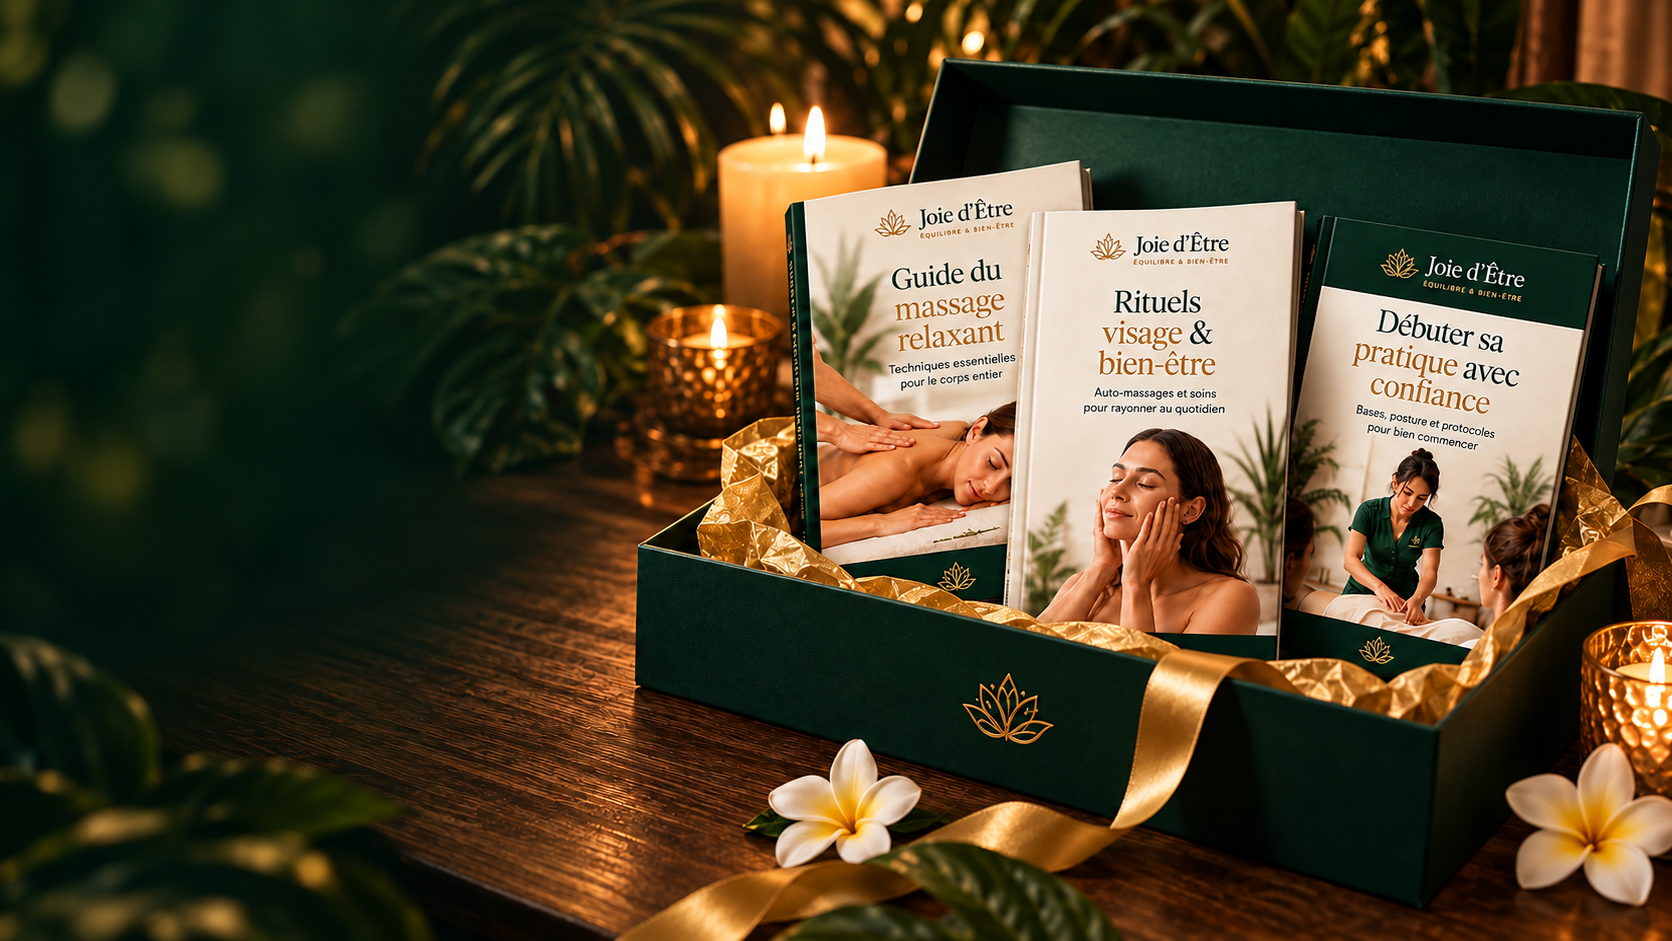
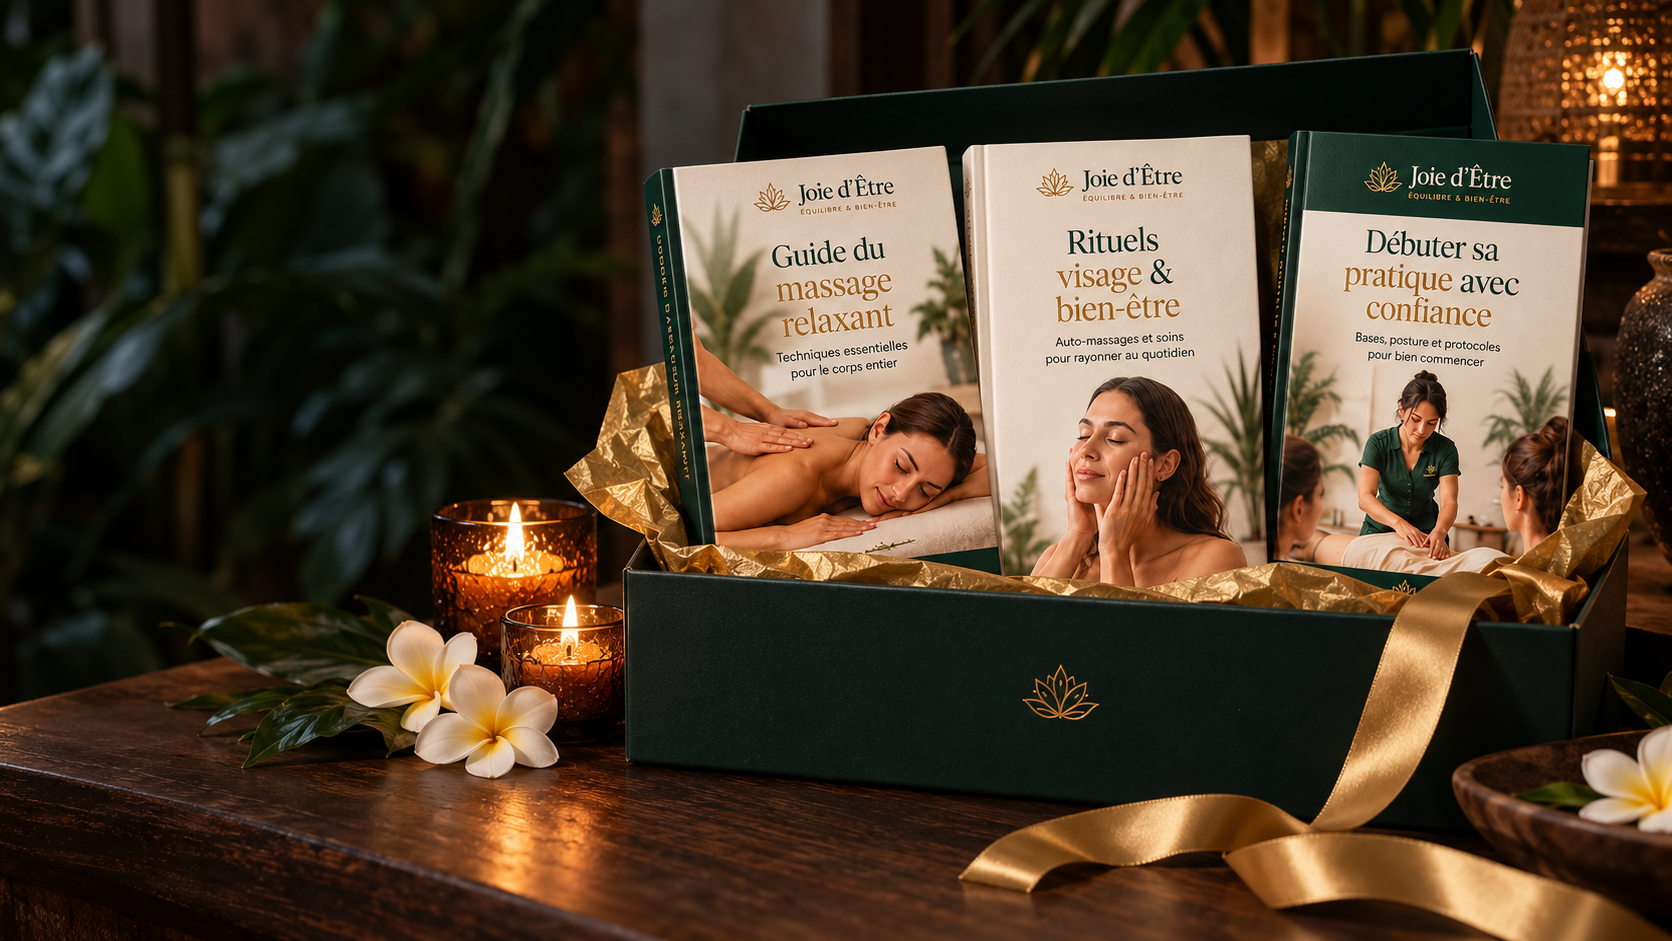
Mes guides : héros en deux colonnes, collection épurée, ornements et photos photoréalistes
Le héros reprend celui des pages Massages, Soins et Épilation. La collection
garde titre, sous-titre et bouton Découvrir ; le coffret et l'auteure prennent
l'ornement des autres sections et un seul bouton.

diff --git a/src/components/guides/guides-collection-section.tsx b/src/components/guides/guides-collection-section.tsx
@@ -1,21 +1,10 @@
-import { useState } from 'react'
-import { ArrowRight } from 'lucide-react'
-
 import { EmbossedCta } from '#/components/landing/embossed-cta'
 import { SectionEyebrow } from '#/components/landing/section-ornaments'
 import { LeafShadow } from '#/components/services/leaf-shadow'
-import { formatEuros, guideCategories, guides } from '#/data/guides'
-import type { Guide, GuideCategory } from '#/data/guides'
-import { cn } from '#/lib/utils'
-
-type Filter = 'Tous' | GuideCategory
-
-const filters: ReadonlyArray<Filter> = ['Tous', ...guideCategories]
+import { guides } from '#/data/guides'
+import type { Guide } from '#/data/guides'
 
 export function GuidesCollectionSection() {
-  const [filter, setFilter] = useState<Filter>('Tous')
-  const visibleGuides = filter === 'Tous' ? guides : guides.filter((guide) => guide.category === filter)
-
   return (
     <section
       id="collection"
@@ -36,37 +25,14 @@ export function GuidesCollectionSection() {
         <SectionEyebrow label="La collection" />
         <h2
           id="collection-title"
-          className="mt-5 text-center text-[clamp(2.4rem,10vw,3.1rem)] font-normal leading-[1.04] tracking-[-0.025em] sm:text-[clamp(3.4rem,6vw,4.4rem)] lg:text-[clamp(3.6rem,4.4vw,4.75rem)]"
+          className="mt-5 text-center text-[clamp(2.4rem,10vw,3.1rem)] font-normal leading-[1.08] tracking-[-0.025em] sm:text-[clamp(3.4rem,6vw,4.4rem)] lg:text-[clamp(3.6rem,4.4vw,4.75rem)]"
         >
-          <span className="block">Trois guides,</span>
-          <em className="block pb-1 font-normal text-[#c09027]">un même art du soin</em>
+          Le guide qui{' '}
+          <em className="inline-block pb-1 font-normal text-[#c09027]">vous ressemble</em>
         </h2>
 
-        <div
-          className="mt-7 flex flex-wrap items-center justify-center gap-x-3 gap-y-2 text-sm text-[#355149] sm:text-base"
-          role="group"
-          aria-label="Filtrer les guides"
-        >
-          {filters.map((item, index) => (
-            <span key={item} className="flex items-center gap-3">
-              {index > 0 && <span className="text-[#c09027]" aria-hidden="true">·</span>}
-              <button
-                type="button"
-                onClick={() => setFilter(item)}
-                aria-pressed={filter === item}
-                className={cn(
-                  'cursor-pointer rounded-sm border-b px-1 pb-1 transition-colors duration-200 hover:text-[#0d3a2f] focus-visible:outline-2 focus-visible:outline-offset-4 focus-visible:outline-[#d4af37]',
-                  filter === item ? 'border-[#c09027] text-[#0d3a2f]' : 'border-transparent',
-                )}
-              >
-                {item}
-              </button>
-            </span>
-          ))}
-        </div>
-
-        <div className="mx-auto mt-10 grid max-w-[92rem] gap-6 sm:mt-12 sm:grid-cols-2 lg:grid-cols-3 xl:gap-8">
-          {visibleGuides.map((guide) => (
+        <div className="mx-auto mt-10 grid max-w-[92rem] gap-6 sm:mt-12 sm:grid-cols-2 lg:mt-14 lg:grid-cols-3 xl:gap-8">
+          {guides.map((guide) => (
             <GuideCard key={guide.slug} guide={guide} />
           ))}
         </div>
@@ -82,7 +48,7 @@ function GuideCard({ guide }: { guide: Guide }) {
       className="group flex scroll-mt-28 flex-col overflow-hidden rounded-sm border border-[#d4af37]/45 bg-[#fffdf8] p-2 pb-8 text-center shadow-[0_18px_40px_rgba(77,51,22,0.08)]"
       aria-labelledby={`${guide.slug}-title`}
     >
-      <div className="relative aspect-[4/3] overflow-hidden rounded-[2px] bg-[#e8dcc8]">
+      <div className="aspect-[4/3] overflow-hidden rounded-[2px] bg-[#e8dcc8]">
         <img
           src={guide.image}
           alt={guide.imageAlt}
@@ -91,45 +57,22 @@ function GuideCard({ guide }: { guide: Guide }) {
           height={1086}
           loading="lazy"
         />
-        {guide.isNew && (
-          <span className="absolute right-0 top-0 rounded-bl-sm bg-[linear-gradient(180deg,#f2d96b_0%,#d9b63d_46%,#b2871e_100%)] px-4 py-2 text-[0.68rem] font-bold uppercase tracking-[0.18em] text-[#14221e] shadow-[inset_0_1px_0_rgba(255,249,220,0.8)]">
-            Nouveau
-          </span>
-        )}
       </div>
 
-      <div className="flex flex-1 flex-col items-center px-4 pt-6 sm:px-6">
-        <p className="text-xs font-semibold uppercase tracking-[0.28em] text-[#c09027]">
-          {guide.category}
-        </p>
+      <div className="flex flex-1 flex-col items-center px-4 pt-7 sm:px-6">
         <h3
           id={`${guide.slug}-title`}
-          className="mt-2 text-balance text-[1.6rem] font-normal leading-tight tracking-[-0.015em] xl:text-[1.85rem]"
+          className="text-balance text-[1.6rem] font-normal leading-tight tracking-[-0.015em] xl:text-[1.85rem]"
         >
           {guide.title}
         </h3>
-        <p className="mb-4 mt-1.5 text-pretty text-sm leading-6 text-[#355149] sm:text-base">
+        <p className="mb-6 mt-2 text-pretty text-sm leading-6 text-[#355149] sm:text-base">
           {guide.subtitle}
         </p>
-        {/* Pushed down so prices and buttons line up when a title wraps to two lines. */}
-        <span className="mt-auto h-px w-12 bg-[#d4af37]/70" aria-hidden="true" />
-        <p className="mt-4 text-xs tracking-[0.08em] text-[#4f665e]">
-          PDF · {guide.pages} pages · Mobile, tablette, ordinateur
-        </p>
-        <p className="mt-2 font-heading text-[1.75rem] leading-none">{formatEuros(guide.price)}</p>
-
-        <div className="mt-6 flex flex-wrap items-center justify-center gap-x-7 gap-y-4">
-          <EmbossedCta href="#acheter" tone="gold" className="h-12 min-w-44">
-            Acheter
-          </EmbossedCta>
-          <a
-            href="#acheter"
-            className="inline-flex items-center gap-2 border-b border-[#0d3a2f]/60 pb-0.5 text-sm text-[#0d3a2f] transition-colors duration-200 hover:border-[#c09027] hover:text-[#8a6417]"
-          >
-            Voir le détail
-            <ArrowRight aria-hidden="true" className="size-4" strokeWidth={1.5} />
-          </a>
-        </div>
+        {/* Pushed down so the buttons line up when a title wraps to two lines. */}
+        <EmbossedCta href="#acheter" tone="gold" className="mt-auto h-12 min-w-52">
+          Découvrir
+        </EmbossedCta>
       </div>
     </article>
   )

diff --git a/src/components/guides/guides-author-section.tsx b/src/components/guides/guides-author-section.tsx
@@ -1,5 +1,5 @@
-import { ArrowRight } from 'lucide-react'
-
+import { EmbossedCta } from '#/components/landing/embossed-cta'
+import { SectionEyebrow } from '#/components/landing/section-ornaments'
 import { LeafShadow } from '#/components/services/leaf-shadow'
 import signature from '#/assets/guides/signature-sabrina.png'
 import sabrinaPortrait from '../../../design/guides/sabrina.png'
@@ -9,7 +9,7 @@ export function GuidesAuthorSection() {
     <section
       id="auteure"
       className="relative isolate scroll-mt-24 overflow-hidden bg-[#fff9ec] py-16 text-[#0d3a2f] sm:scroll-mt-28 sm:py-24 lg:py-28"
-      aria-labelledby="auteure-title"
+      aria-label="Écrits par Sabrina"
     >
       <div
         className="absolute inset-0 -z-30 bg-[linear-gradient(118deg,#fff9ec_0%,#fffaf0_30%,#fffdf8_58%,#fff9ec_100%)]"
@@ -20,13 +20,8 @@ export function GuidesAuthorSection() {
 
       <div className="mx-auto grid w-full max-w-[90rem] items-center gap-14 px-5 sm:px-8 lg:grid-cols-[1.15fr_0.85fr] lg:gap-16 xl:px-16">
         <div className="lg:pl-4">
-          <p
-            id="auteure-title"
-            className="text-xs font-semibold uppercase tracking-[0.28em] text-[#c09027]"
-          >
-            Écrits par Sabrina
-          </p>
-          <figure className="mt-7">
+          <SectionEyebrow label="Écrits par Sabrina" className="w-fit" />
+          <figure className="mt-8">
             <blockquote className="relative pl-14 sm:pl-20">
               <span
                 className="absolute -top-3 left-0 font-heading text-[5rem] leading-none text-[#d4af37] sm:-top-4 sm:text-[7rem]"
@@ -53,13 +48,9 @@ export function GuidesAuthorSection() {
               </p>
             </figcaption>
           </figure>
-          <a
-            href="/#formation"
-            className="ml-14 mt-6 inline-flex items-center gap-2 border-b border-[#0d3a2f]/60 pb-0.5 text-base text-[#0d3a2f] transition-colors duration-200 hover:border-[#c09027] hover:text-[#8a6417] sm:ml-20"
-          >
+          <EmbossedCta href="/#formation" className="ml-14 mt-8 sm:ml-20 sm:min-w-72">
             Découvrir les formations
-            <ArrowRight aria-hidden="true" className="size-4" strokeWidth={1.5} />
-          </a>
+          </EmbossedCta>
         </div>
 
         <figure className="mx-auto w-full max-w-[30rem] lg:max-w-none">

diff --git a/src/data/guides.ts b/src/data/guides.ts
@@ -3,55 +3,41 @@ import guidePratiqueImage from '../../design/guides/guide-pratique.png'
 import guideVisageImage from '../../design/guides/guide-visage.png'
 
 // Sabrina's e-books, sold as illustrated PDFs.
-// Prices, page counts and the "new" badge are placeholders until Sabrina confirms them.
-
-export type GuideCategory = 'Massage' | 'Visage' | 'Pratique pro'
+// Prices are placeholders until Sabrina confirms them; they only feed the bundle for now.
 
 export type Guide = {
   slug: string
   title: string
   subtitle: string
-  category: GuideCategory
-  pages: number
   price: number
   image: string
   imageAlt: string
-  isNew?: boolean
 }
-
-export const guideCategories: ReadonlyArray<GuideCategory> = ['Massage', 'Visage', 'Pratique pro']
 
 export const guides: ReadonlyArray<Guide> = [
   {
     slug: 'guide-du-massage-relaxant',
     title: 'Guide du massage relaxant',
     subtitle: 'Techniques essentielles pour le corps entier',
-    category: 'Massage',
-    pages: 60,
     price: 24,
     image: guideMassageImage,
-    imageAlt: 'Le guide du massage relaxant posé sur un socle en pierre, à côté d’une bougie',
+    imageAlt: 'Le guide du massage relaxant posé sur un bloc de pierre, à côté d’une bougie',
   },
   {
     slug: 'rituels-visage-et-bien-etre',
     title: 'Rituels visage & bien-être',
     subtitle: 'Auto-massages et soins pour rayonner au quotidien',
-    category: 'Visage',
-    pages: 60,
     price: 19,
     image: guideVisageImage,
-    imageAlt: 'Le guide Rituels visage et bien-être posé sur un socle en pierre, à côté d’une bougie',
-    isNew: true,
+    imageAlt: 'Le guide Rituels visage et bien-être posé sur un bloc de pierre, à côté d’une bougie',
   },
   {
     slug: 'debuter-sa-pratique-avec-confiance',
     title: 'Débuter sa pratique avec confiance',
     subtitle: 'Bases, posture et protocoles pour bien commencer',
-    category: 'Pratique pro',
-    pages: 60,
     price: 29,
     image: guidePratiqueImage,
-    imageAlt: 'Le guide Débuter sa pratique avec confiance posé sur un socle en pierre',
+    imageAlt: 'Le guide Débuter sa pratique avec confiance posé sur un bloc de pierre',
   },
 ]
 

diff --git a/src/components/guides/guides-bundle-section.tsx b/src/components/guides/guides-bundle-section.tsx
@@ -1,7 +1,5 @@
-import { ArrowRight } from 'lucide-react'
-
 import { EmbossedCta } from '#/components/landing/embossed-cta'
-import { GoldDivider } from '#/components/landing/section-ornaments'
+import { SectionEyebrow } from '#/components/landing/section-ornaments'
 import { formatEuros, guidesBundle } from '#/data/guides'
 import bundleImage from '../../../design/guides/coffret.png'
 
@@ -30,10 +28,7 @@ export function GuidesBundleSection() {
 
       <div className="mx-auto flex w-full max-w-[100rem] items-center px-5 pb-20 pt-4 sm:px-8 sm:pb-24 lg:min-h-[52rem] lg:py-28 xl:px-16">
         <div className="max-w-[34rem]">
-          <GoldDivider compact />
-          <p className="mt-5 text-xs font-semibold uppercase tracking-[0.32em] text-[#e5bd42]">
-            Le coffret
-          </p>
+          <SectionEyebrow label="Le coffret" className="w-fit" />
           <h2
             id="coffret-title"
             className="mt-4 text-[clamp(2.4rem,10vw,3.1rem)] font-normal leading-[1.04] tracking-[-0.025em] text-[#fff5df] sm:text-[clamp(3.4rem,6vw,4.4rem)] lg:text-[clamp(3.6rem,4.4vw,4.75rem)]"
@@ -55,18 +50,9 @@ export function GuidesBundleSection() {
             </s>
           </p>
 
-          <div className="mt-9 flex flex-col items-start gap-6 sm:flex-row sm:items-center sm:gap-9">
-            <EmbossedCta href="#acheter" tone="gold" className="sm:min-w-72">
-              Choisir le coffret
-            </EmbossedCta>
-            <a
-              href="#offrir"
-              className="inline-flex items-center gap-2 border-b border-[#fff9ec]/60 pb-0.5 text-base text-[#fff9ec] transition-colors duration-200 hover:border-[#e5bd42] hover:text-[#e5bd42]"
-            >
-              Offrir le coffret
-              <ArrowRight aria-hidden="true" className="size-4" strokeWidth={1.5} />
-            </a>
-          </div>
+          <EmbossedCta href="#acheter" tone="gold" className="mt-9 sm:min-w-72">
+            Choisir le coffret
+          </EmbossedCta>
         </div>
       </div>
     </section>

diff --git a/src/routes/guides.tsx b/src/routes/guides.tsx
@@ -3,7 +3,11 @@ import { createFileRoute } from '@tanstack/react-router'
 import { GuidesAuthorSection } from '#/components/guides/guides-author-section'
 import { GuidesBundleSection } from '#/components/guides/guides-bundle-section'
 import { GuidesCollectionSection } from '#/components/guides/guides-collection-section'
-import { GuidesHero } from '#/components/guides/guides-hero'
+import { ServiceHero } from '#/components/services/service-hero'
+import heroLargeImage from '../../design/guides/hero-livres.png'
+import heroMassageImage from '../../design/guides/hero-massage.png'
+import heroPratiqueImage from '../../design/guides/hero-pratique.png'
+import heroVisageImage from '../../design/guides/hero-visage.png'
 
 export const Route = createFileRoute('/guides')({
   head: () => ({
@@ -15,7 +19,23 @@ export const Route = createFileRoute('/guides')({
 function Guides() {
   return (
     <main className="overflow-x-clip bg-background">
-      <GuidesHero />
+      <ServiceHero
+        activeHref="/guides"
+        title="Le savoir-faire de Sabrina,"
+        accent="entre vos mains."
+        intro="Des guides illustrés à télécharger en PDF, pour pratiquer chez vous, à votre rythme."
+        largeImage={{
+          src: heroLargeImage,
+          alt: 'Les trois guides Joie d’Être posés sur une console en bois sculpté, entre bougies et fleurs de frangipanier',
+        }}
+        squareImages={[
+          { src: heroMassageImage, alt: 'Mains glissant avec de l’huile sur le dos d’une femme détendue' },
+          { src: heroVisageImage, alt: 'Femme les yeux fermés, en plein auto-massage du visage' },
+          { src: heroPratiqueImage, alt: 'Praticienne montrant un geste de massage à une élève' },
+        ]}
+        primaryCta={{ label: 'Découvrir les guides', href: '#collection' }}
+        secondaryCta={{ label: 'Voir le coffret', href: '#coffret' }}
+      />
       <GuidesCollectionSection />
       <GuidesBundleSection />
       <GuidesAuthorSection />
